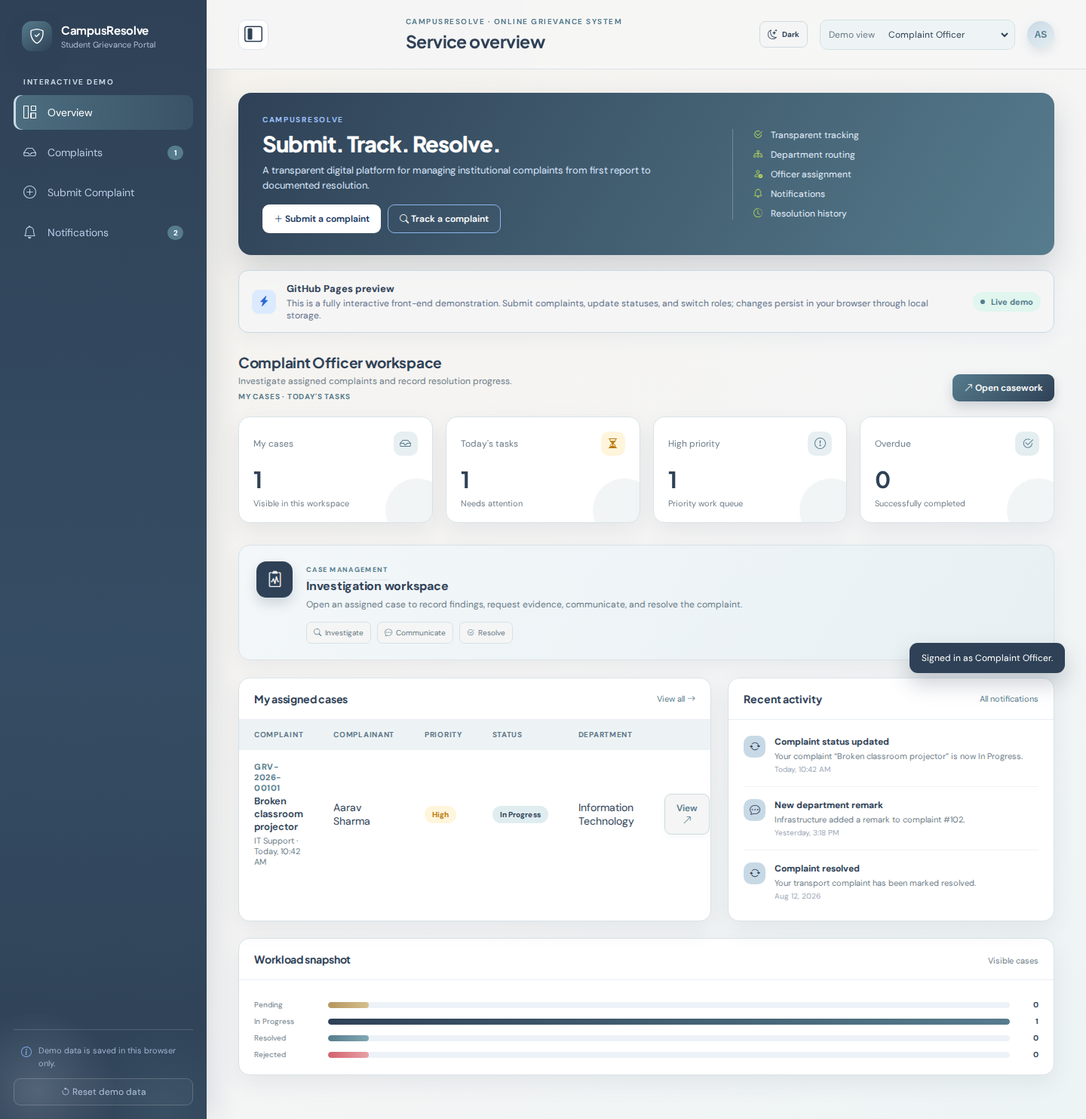
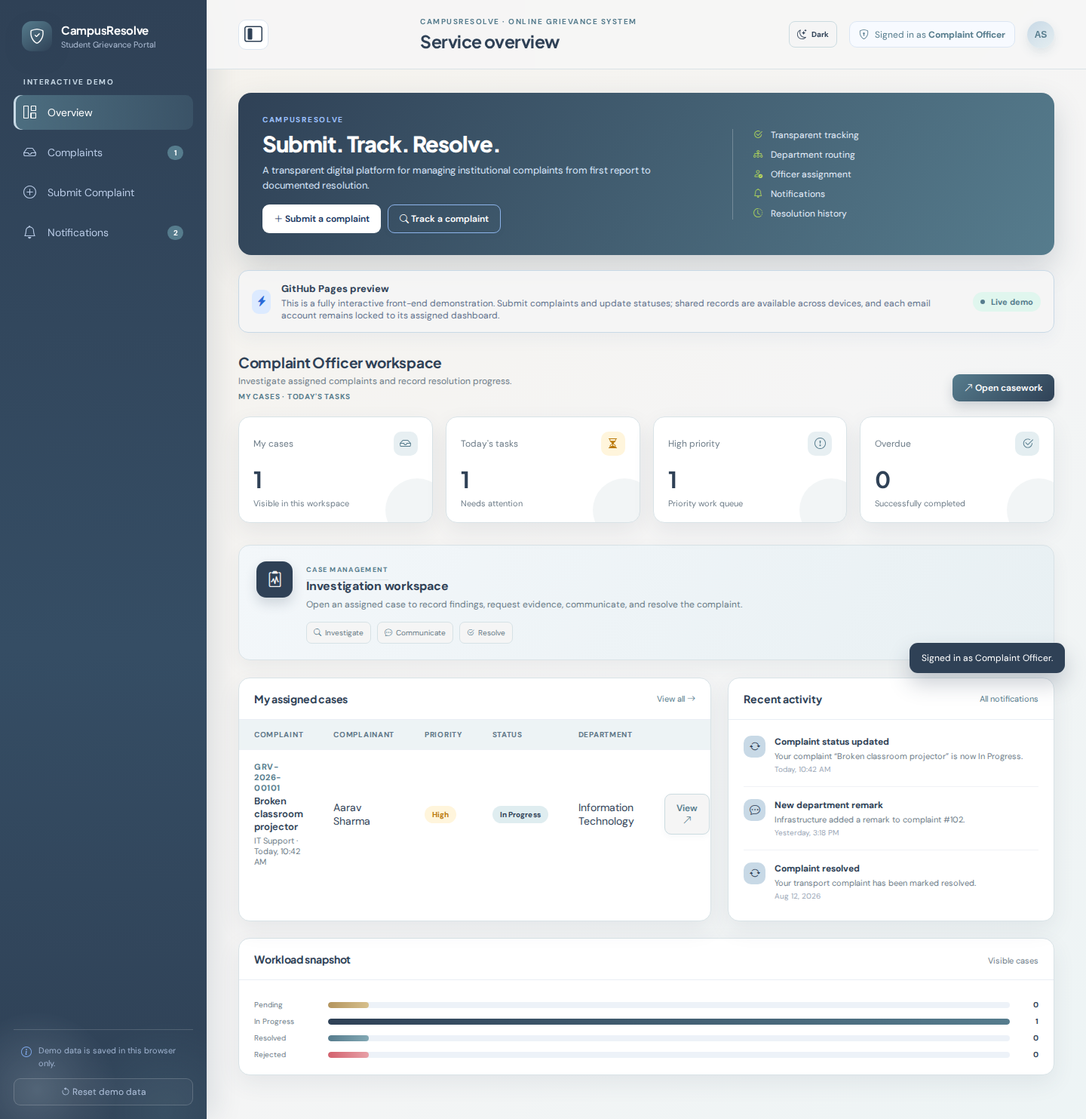
feat(auth): lock dashboards to approved role accounts

diff --git a/docs/app.js b/docs/app.js
@@ -95,8 +95,8 @@ function renderNotifications() { $('#notificationsView').innerHTML = `<div class
 function renderDetail(id) { const c = state.complaints.find((x) => x.id === Number(id)); if (!c) return; const canUpdate = ['admin', 'department', 'officer'].includes(state.role); const reference = c.reference_no || `GRV-2026-${String(c.id).padStart(5, '0')}`; $('#complaintsView').innerHTML = `<div class="section-head"><div><button class="ghost-btn" data-view="complaints"><i class="bi bi-arrow-left"></i> Back to queue</button></div></div><div class="detail-panel"><div class="card detail-card"><div class="section-head"><div><div class="case-id prominent">${esc(reference)}</div><h3>${esc(c.subject)}</h3><p class="role-note">Submitted ${esc(c.created)} · ${esc(c.owner)}</p></div><div>${badge(c.status)}</div></div><div class="detail-meta"><div><small>Priority</small><strong>${badge(c.priority, 'priority')}</strong></div><div><small>Department</small><strong>${esc(c.department)}</strong></div><div><small>Officer</small><strong>${esc(c.officer)}</strong></div></div><div class="section-label">Description</div><p>${esc(c.description)}</p><div class="section-label">Attachments</div><p class="role-note"><i class="bi bi-paperclip"></i> Secure attachments are available in the full PHP application.</p><div class="section-label">Comments and resolution notes</div><p>${esc(c.remarks || 'No remarks have been added yet.')}</p>${canUpdate ? `<div class="form-actions" style="justify-content:flex-start"><select class="form-control" id="detailStatus" style="max-width:190px"><option>Pending</option><option>In Progress</option><option>Resolved</option><option>Rejected</option></select><button class="primary-btn" id="saveDetailStatus">Update status</button></div>` : ''}</div><div class="card detail-card"><h3>Activity timeline</h3><div class="timeline"><div class="timeline-item"><div class="timeline-dot"><i class="bi bi-plus"></i></div><div><strong>Complaint submitted</strong><small>${esc(c.created)} · By ${esc(c.owner)}</small></div></div><div class="timeline-item"><div class="timeline-dot"><i class="bi bi-arrow-repeat"></i></div><div><strong>Status: ${esc(c.status)}</strong><small>${esc(c.updated)} · ${esc(c.department)}</small></div></div><div class="timeline-item"><div class="timeline-dot"><i class="bi bi-shield-check"></i></div><div><strong>Responsible team</strong><small>${esc(c.officer === 'Unassigned' ? 'Awaiting assignment' : c.officer)}</small></div></div></div></div></div>`; if (canUpdate) { $('#detailStatus').value = c.status; $('#saveDetailStatus').addEventListener('click', () => updateStatus(c.id, $('#detailStatus').value)); } }
 async function updateStatus(id, status) { const c = state.complaints.find((x) => x.id === id); if (!c) return; const old = c.status; c.status = status; c.updated = 'Just now'; c.remarks = `${state.role === 'officer' ? 'Officer' : state.role === 'department' ? 'Department manager' : 'Administrator'} updated this complaint during the demo.`; state.notifications.unshift({ id: Date.now(), title: 'Complaint status updated', message: `Complaint #${id} changed from ${old} to ${status}.`, type: 'status_change', read: false, time: 'Just now', complaintId: id }); saveState(); updateSharedComplaint(c).catch((error) => console.warn('Status saved locally because shared storage was unavailable.', error)); showToast(`Complaint #${id} is now ${status}.`); renderDetail(id); }
 function showView(view) { $('#navCount').textContent = visibleComplaints().length; $('#notificationCount').textContent = state.notifications.filter((n) => !n.read).length || ''; currentView = view; document.querySelectorAll('.view-panel').forEach((el) => el.classList.add('hidden')); const target = $(`#${view}View`); if (target) target.classList.remove('hidden'); document.querySelectorAll('.nav-item').forEach((el) => el.classList.toggle('active', el.dataset.view === view)); const titles = { overview: 'Service overview', complaints: 'Complaint queue', new: 'Submit complaint', notifications: 'Notifications' }; $('#pageTitle').textContent = titles[view] || 'Service overview'; if (view === 'overview') renderOverview(); if (view === 'complaints') renderComplaints(); if (view === 'new') renderNew(); if (view === 'notifications') renderNotifications(); bindActions(); window.scrollTo({ top: 0, behavior: 'smooth' }); }
-function updateAccountHeader() { $('#accountRole').textContent = roles[state.role]; $('#accountName').textContent = state.role === 'admin' ? 'Administrator' : state.role === 'department' ? 'Infrastructure Manager' : state.role === 'officer' ? 'Priya Nair' : 'Aarav Sharma'; }
-function render() { $('#roleSelect').value = state.role; updateAccountHeader(); $('#navCount').textContent = visibleComplaints().length; $('#notificationCount').textContent = state.notifications.filter((n) => !n.read).length || ''; renderOverview(); showView(currentView); }
+function updateAccountHeader() { $('#accountRole').textContent = roles[state.role]; $('#roleSelectLabel').textContent = roles[state.role]; $('#accountName').textContent = state.role === 'admin' ? 'Administrator' : state.role === 'department' ? 'Infrastructure Manager' : state.role === 'officer' ? 'Priya Nair' : 'Aarav Sharma'; }
+function render() { updateAccountHeader(); $('#navCount').textContent = visibleComplaints().length; $('#notificationCount').textContent = state.notifications.filter((n) => !n.read).length || ''; renderOverview(); showView(currentView); }
 function bindActions() { document.querySelectorAll('[data-view]').forEach((el) => el.onclick = () => showView(el.dataset.view)); document.querySelectorAll('[data-open]').forEach((el) => el.onclick = () => { currentView = 'complaints'; document.querySelectorAll('.view-panel').forEach((p) => p.classList.add('hidden')); $('#complaintsView').classList.remove('hidden'); renderDetail(el.dataset.open); }); }
 function showToast(message) { const toast = $('#toast'); toast.textContent = message; toast.classList.add('show'); setTimeout(() => toast.classList.remove('show'), 2600); }
 function showApp() { $('#demoLogin').classList.add('hidden'); document.querySelector('.app-shell').classList.remove('hidden'); render(); syncSharedComplaints(); if (!window.sharedSyncTimer) window.sharedSyncTimer = window.setInterval(syncSharedComplaints, 15000); }
@@ -105,7 +105,7 @@ function setDemoRole(role) { loginRole = role; $('#demoEmail').value = DEMO_ACCO
 function bindDemoLogin() { document.querySelectorAll('[data-demo-role]').forEach((button) => button.addEventListener('click', () => setDemoRole(button.dataset.demoRole))); $('#toggleDemoPassword').addEventListener('click', () => { const input = $('#demoPassword'); const visible = input.type === 'text'; input.type = visible ? 'password' : 'text'; $('#toggleDemoPassword').innerHTML = `<i class="bi bi-eye${visible ? '' : '-slash'}"></i>`; $('#toggleDemoPassword').setAttribute('aria-label', visible ? 'Show password' : 'Hide password'); }); $('#demoLoginForm').addEventListener('submit', (event) => { event.preventDefault(); const email = $('#demoEmail').value.trim(); const password = $('#demoPassword').value; const error = $('#demoLoginError'); if (!email.includes('@') || password.length < 4) { error.textContent = 'Enter a valid email address and a demo password.'; error.classList.remove('hidden'); return; } if (email !== DEMO_ACCOUNTS[loginRole].email || password !== DEMO_ACCOUNTS[loginRole].password) { error.textContent = `Use the ${roles[loginRole]} demo account shown in the README.`; error.classList.remove('hidden'); return; } error.classList.add('hidden'); state.role = loginRole; saveState(); sessionStorage.setItem(LOGIN_KEY, '1'); showApp(); showToast(`Signed in as ${roles[state.role]}.`); }); setDemoRole(loginRole); }
 
 
-$('#roleSelect').addEventListener('change', (event) => { state.role = event.target.value; saveState(); currentView = 'overview'; render(); showToast(`Switched to ${roles[state.role]} view.`); }); $('#accountToggle').addEventListener('click', () => { const menu = $('#accountMenu'); const open = menu.classList.toggle('hidden') === false; $('#accountToggle').setAttribute('aria-expanded', String(open)); }); document.addEventListener('click', (event) => { if (!event.target.closest('.account-wrap')) { $('#accountMenu').classList.add('hidden'); $('#accountToggle').setAttribute('aria-expanded', 'false'); } }); document.querySelectorAll('[data-account-action]').forEach((button) => button.addEventListener('click', () => { const action = button.dataset.accountAction; $('#accountMenu').classList.add('hidden'); if (action === 'complaints' || action === 'notifications') showView(action); else if (action === 'logout') { sessionStorage.removeItem(LOGIN_KEY); showLogin(); } else if (action === 'password') showToast('Use Change Password in the full PHP application.'); else showToast('Profile details are available in the full PHP application.'); }));
+$('#accountToggle').addEventListener('click', () => { const menu = $('#accountMenu'); const open = menu.classList.toggle('hidden') === false; $('#accountToggle').setAttribute('aria-expanded', String(open)); }); document.addEventListener('click', (event) => { if (!event.target.closest('.account-wrap')) { $('#accountMenu').classList.add('hidden'); $('#accountToggle').setAttribute('aria-expanded', 'false'); } }); document.querySelectorAll('[data-account-action]').forEach((button) => button.addEventListener('click', () => { const action = button.dataset.accountAction; $('#accountMenu').classList.add('hidden'); if (action === 'complaints' || action === 'notifications') showView(action); else if (action === 'logout') { sessionStorage.removeItem(LOGIN_KEY); showLogin(); } else if (action === 'password') showToast('Use Change Password in the full PHP application.'); else showToast('Profile details are available in the full PHP application.'); }));
 document.querySelectorAll('.nav-item').forEach((item) => item.addEventListener('click', () => showView(item.dataset.view)));
 $('#resetDemo').addEventListener('click', () => { if (confirm('Reset the demo data to its original sample state?')) { state = structuredClone(seed); saveState(); render(); showToast('Demo data reset.'); } });
 const sidebarToggle = $('#mobileMenu');

diff --git a/docs/index.html b/docs/index.html
@@ -29,11 +29,11 @@
     <button class="sidebar-backdrop" id="sidebarBackdrop" type="button" aria-label="Close sidebar"></button>
 
     <main class="main-content">
-      <header class="topbar"><button class="mobile-menu" id="mobileMenu" type="button" aria-label="Collapse sidebar" aria-expanded="true" title="Collapse sidebar"><i class="bi bi-layout-sidebar-inset"></i></button><div><p class="eyebrow">CAMPUSRESOLVE · ONLINE GRIEVANCE SYSTEM</p><h1 id="pageTitle">Service overview</h1></div><div class="top-actions"><button class="theme-toggle" id="themeToggle" type="button" aria-label="Enable dark mode"><i class="bi bi-moon-stars"></i><span>Dark</span></button><div class="role-switcher"><span>Demo view</span><select id="roleSelect"><option value="user">Complainant</option><option value="admin">Administrator</option><option value="department">Department Manager</option><option value="officer">Complaint Officer</option></select></div><div class="account-wrap"><button class="avatar" id="accountToggle" aria-expanded="false" aria-controls="accountMenu">AS</button><div class="account-menu hidden" id="accountMenu"><strong id="accountName">Aarav Sharma</strong><small id="accountRole">Complainant</small><button data-account-action="profile"><i class="bi bi-person"></i> My profile</button><button data-account-action="complaints"><i class="bi bi-inbox"></i> My complaints</button><button data-account-action="notifications"><i class="bi bi-bell"></i> Notifications</button><button data-account-action="password"><i class="bi bi-key"></i> Change password</button><button data-account-action="logout"><i class="bi bi-box-arrow-right"></i> Log out</button></div></div></div></header>
+      <header class="topbar"><button class="mobile-menu" id="mobileMenu" type="button" aria-label="Collapse sidebar" aria-expanded="true" title="Collapse sidebar"><i class="bi bi-layout-sidebar-inset"></i></button><div><p class="eyebrow">CAMPUSRESOLVE · ONLINE GRIEVANCE SYSTEM</p><h1 id="pageTitle">Service overview</h1></div><div class="top-actions"><button class="theme-toggle" id="themeToggle" type="button" aria-label="Enable dark mode"><i class="bi bi-moon-stars"></i><span>Dark</span></button><div class="role-switcher role-locked"><i class="bi bi-shield-lock"></i><span>Signed in as <strong id="roleSelectLabel">Complainant</strong></span></div><div class="account-wrap"><button class="avatar" id="accountToggle" aria-expanded="false" aria-controls="accountMenu">AS</button><div class="account-menu hidden" id="accountMenu"><strong id="accountName">Aarav Sharma</strong><small id="accountRole">Complainant</small><button data-account-action="profile"><i class="bi bi-person"></i> My profile</button><button data-account-action="complaints"><i class="bi bi-inbox"></i> My complaints</button><button data-account-action="notifications"><i class="bi bi-bell"></i> Notifications</button><button data-account-action="password"><i class="bi bi-key"></i> Change password</button><button data-account-action="logout"><i class="bi bi-box-arrow-right"></i> Log out</button></div></div></div></header>
 
       <section class="content-wrap">
         <section class="demo-hero"><div><p class="hero-kicker">CAMPUSRESOLVE</p><h2>Submit. Track. Resolve.</h2><p>A transparent digital platform for managing institutional complaints from first report to documented resolution.</p><div class="hero-actions"><button class="primary-btn" data-view="new"><i class="bi bi-plus-lg"></i> Submit a complaint</button><button class="ghost-btn" data-view="complaints"><i class="bi bi-search"></i> Track a complaint</button></div></div><div class="hero-proof"><span><i class="bi bi-check2-circle"></i> Transparent tracking</span><span><i class="bi bi-diagram-3"></i> Department routing</span><span><i class="bi bi-person-check"></i> Officer assignment</span><span><i class="bi bi-bell"></i> Notifications</span><span><i class="bi bi-clock-history"></i> Resolution history</span></div></section>
-        <div class="demo-banner"><div class="banner-icon"><i class="bi bi-lightning-charge-fill"></i></div><div><strong>GitHub Pages preview</strong><p>This is a fully interactive front-end demonstration. Submit complaints, update statuses, and switch roles; changes persist in your browser through local storage.</p></div><span class="live-pill"><i></i> Live demo</span></div>
+        <div class="demo-banner"><div class="banner-icon"><i class="bi bi-lightning-charge-fill"></i></div><div><strong>GitHub Pages preview</strong><p>This is a fully interactive front-end demonstration. Submit complaints and update statuses; shared records are available across devices, and each email account remains locked to its assigned dashboard.</p></div><span class="live-pill"><i></i> Live demo</span></div>
 
         <div id="toast" class="toast-message" role="status"></div>
         <section id="overviewView" class="view-panel"></section>

diff --git a/docs/styles.css b/docs/styles.css
@@ -39,3 +39,10 @@ body.dark-mode{--ink:#edf4f5;--muted:#afc0c8;--line:#40596a;--surface:#24394d;--
 .sidebar-backdrop{display:none}
 @media(max-width:760px){.sidebar-backdrop{display:block;position:fixed;inset:0;z-index:19;border:0;background:rgba(10,25,44,.48);opacity:0;pointer-events:none;transition:opacity .24s ease;cursor:pointer}.app-shell.sidebar-open .sidebar-backdrop{opacity:1;pointer-events:auto}}
 @media(prefers-reduced-motion:reduce){.sidebar-backdrop{transition:none}}
+
+
+/* Authenticated role lock indicator */
+.role-locked{display:inline-flex;align-items:center;gap:8px;color:var(--blue);background:#f7faff;border-color:#dbe6f3;padding:8px 12px}
+.role-locked i{font-size:13px;color:var(--green)}
+.role-locked strong{font-weight:800}
+@media(max-width:760px){.role-locked span{display:inline}.role-locked{padding:8px 10px}.role-locked strong{display:none}}

diff --git a/docs/WORKFLOWS-AND-DASHBOARDS.md b/docs/WORKFLOWS-AND-DASHBOARDS.md
@@ -1,0 +1,90 @@
+# CampusResolve Workflows and Dashboard Guide
+
+CampusResolve is an institutional complaint and grievance management system. The platform separates responsibilities across four authenticated roles so that a complainant can submit and track a case, while authorized staff route, investigate, resolve, and audit it.
+
+## 1. Authentication and access workflow
+
+Every dashboard is protected by authentication. A user must submit the email and password assigned to the intended role. The PHP application validates the account against the database, creates a session, records the login event, and redirects the user to the role-specific home page. The public GitHub Pages demonstration applies the same rule in browser JavaScript and does not expose a post-login role selector.
+
+| Role | Login email | Login password | Dashboard destination |
+|---|---|---|---|
+| Complainant | `student@campus.edu` | `Student@1234` | `dashboard.php` |
+| Administrator | `admin@campus.edu` | `Admin@1234` | `admin_dashboard.php` |
+| Department Manager | `manager@campus.edu` | `Manager@1234` | `department_dashboard.php` |
+| Complaint Officer | `officer@campus.edu` | `Officer@1234` | `officer_dashboard.php` |
+
+These are college demonstration credentials only. They must be replaced before production use. A role cannot be selected after login to bypass the account's assigned permissions. Direct access to another PHP dashboard is checked again by server-side role guards and is rejected or redirected when unauthorized.
+
+## 2. Complaint lifecycle workflow
+
+The complaint lifecycle is a controlled sequence of responsibility transfers. Each important transition records a timeline event and can generate an in-app, email, or browser-push notification.
+
+```text
+Complainant submits complaint
+        │ subject, category, priority, description, optional evidence
+        ▼
+Administrator reviews and routes
+        │ assigns department, checks priority and SLA
+        ▼
+Department Manager receives queue item
+        │ assigns an available complaint officer
+        ▼
+Complaint Officer investigates
+        │ adds remarks, comments, evidence, and status updates
+        ▼
+Resolved or Rejected
+        │ status notification, timeline record, optional escalation history
+        ▼
+Complainant reviews outcome
+        └ submits feedback and 5-star rating after resolution
+```
+
+A complaint receives a human-readable reference such as `GRV-2026-00001`. The reference is used for searching, receipts, notifications, exports, and defense demonstrations. SLA rules calculate an expected response and resolution window from the complaint priority. Overdue items are highlighted for operational review and may be escalated.
+
+## 3. Dashboard explanations
+
+### Complainant dashboard
+
+The complainant dashboard is the starting point for students and other campus users. It provides a personal overview of submitted complaints, current statuses, pending work, resolved items, and recent notifications. The **Submit Complaint** flow captures the subject, category, priority, description, and optional evidence. The **My Complaints** area supports reference-number and subject search, filtering, status inspection, comments, timeline review, and post-resolution feedback.
+
+### Administrator dashboard
+
+The administrator dashboard provides institution-wide control. Administrators review all complaints, route cases to departments, manage users and roles, monitor SLA and overdue work, inspect the audit log, review notification-delivery outcomes, and access CSV/PDF reporting. The administrator does not replace the investigation work of the department or officer; instead, the dashboard establishes governance, routing, accountability, and reporting visibility.
+
+### Department Manager dashboard
+
+The department manager dashboard is scoped to the manager's department. It shows the department queue, unassigned items, overdue cases, and officer workload. Managers assign cases only to active officers belonging to the same department, add departmental remarks, monitor progress, and escalate cases that need intervention. The server-side role and department checks prevent the manager from viewing unrelated departmental data.
+
+### Complaint Officer dashboard
+
+The complaint officer dashboard contains only assigned casework. Officers review the case description and evidence, communicate through comments, add investigation remarks, update the status, and record the resolution or rejection decision. The officer view is designed for execution rather than administration, so it does not provide institution-wide user management or unrestricted complaint routing.
+
+## 4. Supporting workflows
+
+### Notification workflow
+
+A complaint submission, assignment, comment, status change, escalation, or resolution can create a notification. In-app notifications are shown in the portal. Email and browser-push attempts are placed in the delivery queue, retried with backoff when appropriate, and logged for administrator review.
+
+### SLA and escalation workflow
+
+The system maps priority to an SLA policy. A scheduled or manual review identifies cases that have passed their due time. Authorized staff can escalate a complaint with a reason and destination user. The escalation remains linked to the complaint and appears in the audit and timeline history.
+
+### Feedback workflow
+
+After a complaint reaches the resolved state, the complainant can submit a rating from one to five stars and an optional comment. Feedback is linked to the complaint and can be used in department and officer performance analysis.
+
+### Audit workflow
+
+Security-sensitive and administrative events are written to the audit log with the actor, action, entity, description, IP address, user agent, and timestamp. This creates an evidence trail for account changes, complaint status changes, assignments, exports, escalations, and notification operations.
+
+## 5. ER diagram explanation
+
+The [detailed ER diagram](diagrams/rendered/er-diagram-detailed.png) models the data layer. `USERS` stores authenticated people and their roles. `DEPARTMENTS` groups staff and receives routed complaints. `COMPLAINTS` is the central transactional entity and connects the complainant, department, assigned officer, priority, status, SLA, and feedback information.
+
+`COMPLAINT_TIMELINE`, `COMPLAINT_COMMENTS`, and `COMPLAINT_ATTACHMENTS` preserve the history and supporting evidence of a case. `NOTIFICATIONS` and `EMAIL_NOTIFICATIONS` deliver and record communication. `COMPLAINT_ESCALATIONS` records intervention history, while `SLA_POLICIES` provides the priority-based resolution rules. `AUDIT_LOGS` records accountable system activity. `USER_PREFERENCES` and `PASSWORD_RESETS` support account management without mixing preference or recovery data into the core complaint row.
+
+The simpler [ER diagram](diagrams/rendered/er-diagram.png) is retained for quick presentation use, while the detailed version is intended for database-design review and project defense.
+
+## 6. Defense explanation
+
+A concise project-defense explanation is: **the complainant creates the case; the administrator routes it; the department manager assigns responsibility; the complaint officer investigates and updates the outcome; the system records the entire journey and notifies the relevant users.** The database design supports this workflow by separating identity, routing, case data, history, evidence, communication, SLA, escalation, and audit concerns into related entities.

diff --git a/README.md b/README.md
@@ -51,7 +51,7 @@ The public preview includes a consistent interface for each operational role. Th
 
 ## Design evidence
 
-The project includes a complete academic documentation pack: [SRS](docs/SRS.md), [project report](docs/PROJECT-REPORT.md), [test cases](docs/TEST-CASES.md), [test results](docs/TEST-RESULTS.md), [database design](docs/DATABASE-DESIGN.md), [installation guide](docs/INSTALLATION.md), [deployment guide](docs/DEPLOYMENT.md), and [future scope](docs/FUTURE-SCOPE.md). The [diagram gallery](docs/diagrams/) contains the ER diagram, DFD Levels 0–2, use-case diagram, system architecture, and complaint-submission sequence diagram.
+The project includes a complete academic documentation pack: [SRS](docs/SRS.md), [project report](docs/PROJECT-REPORT.md), [test cases](docs/TEST-CASES.md), [test results](docs/TEST-RESULTS.md), [database design](docs/DATABASE-DESIGN.md), [workflow and dashboard guide](docs/WORKFLOWS-AND-DASHBOARDS.md), [installation guide](docs/INSTALLATION.md), [deployment guide](docs/DEPLOYMENT.md), and [future scope](docs/FUTURE-SCOPE.md). The [diagram gallery](docs/diagrams/) contains the ER diagram, detailed ER diagram, DFD Levels 0–2, use-case diagram, system architecture, and complaint-submission sequence diagram.
 
 ## Demo login accounts
 
@@ -156,13 +156,13 @@ No installation is required for the browser demo:
 
 1. Open the [live GitHub Pages website](https://shubh0o7.github.io/complaint-management-system/).
 2. Choose a role on the login page or use the exact credentials in the table above.
-3. Switch roles with the **Viewing as** selector.
+3. The dashboard shown is determined by the authenticated email account; there is no post-login role switch.
 4. Open **Submit Complaint** to create a demo complaint.
 5. Open **Complaints** to search, filter, and inspect a case.
 6. Open **Notifications** to review activity.
 7. Use the top-left sidebar control to collapse or reopen navigation. On mobile, tap the dimmed backdrop to close the drawer.
 
-> Demo changes are stored only in the current browser. Use **Reset demo data** in the sidebar to restore the original sample records.
+> Demo complaint records are shared across devices through the dedicated demo table. A local browser cache is used only as a fallback. Use **Reset demo data** in the sidebar to restore the original sample records.
 
 ## Quick start: complete PHP application
 
@@ -217,7 +217,7 @@ The repository is organized so a professor can inspect both the running system a
 ├── api/                               JSON and form-processing endpoints
 ├── includes/                          Auth, layout, notification, and workflow helpers
 ├── assets/                            Shared PHP application styles and scripts
-├── docs/                              GitHub Pages demo source and screenshots
+├── docs/                              GitHub Pages demo, screenshots, diagrams, and guides
 ├── tests/smoke_test.sh                Reproducible local audit test
 ├── uploads/                           Local attachment storage
 ├── database.sql                       Complete schema and seed data

diff --git a/docs/README.md b/docs/README.md
@@ -9,13 +9,14 @@ This directory contains the design evidence and operational documentation for th
 | [Test Cases](TEST-CASES.md) | Complete test-case catalogue |
 | [Test Results](TEST-RESULTS.md) | Reproducible validation evidence |
 | [Database Design](DATABASE-DESIGN.md) | Entities, relationships, constraints, and security controls |
+| [Workflows and Dashboards](WORKFLOWS-AND-DASHBOARDS.md) | Authentication, complaint lifecycle, role responsibilities, and ER explanation |
 | [Installation](INSTALLATION.md) | Docker and local setup |
 | [Deployment](DEPLOYMENT.md) | CI/CD, container hosting, email, and production checklist |
 | [Future Scope](FUTURE-SCOPE.md) | Realistic next steps beyond the academic build |
 | [Diagrams](diagrams/) | ER, DFD 0–2, use case, architecture, and sequence diagrams |
 | [Screenshots](screenshots/modules/) | Four role-specific interface captures |
 
-The public browser demo is available at [shubh0o7.github.io/complaint-management-system](https://shubh0o7.github.io/complaint-management-system/). The demo uses strict role-specific credentials and a dedicated shared complaint table, so complaints submitted from one device can be viewed from another. A local browser cache is retained only as a fallback; the full server-backed application is started with Docker.
+The public browser demo is available at [shubh0o7.github.io/complaint-management-system](https://shubh0o7.github.io/complaint-management-system/). The demo uses strict role-specific credentials and a dedicated shared complaint table, so complaints submitted from one device can be viewed from another. A local browser cache is retained only as a fallback; the full server-backed application is started with Docker. Review [Workflows and Dashboards](WORKFLOWS-AND-DASHBOARDS.md) for the ER model and the complete role-by-role explanation.
 
 | Demo role | Email | Password |
 |---|---|---|
